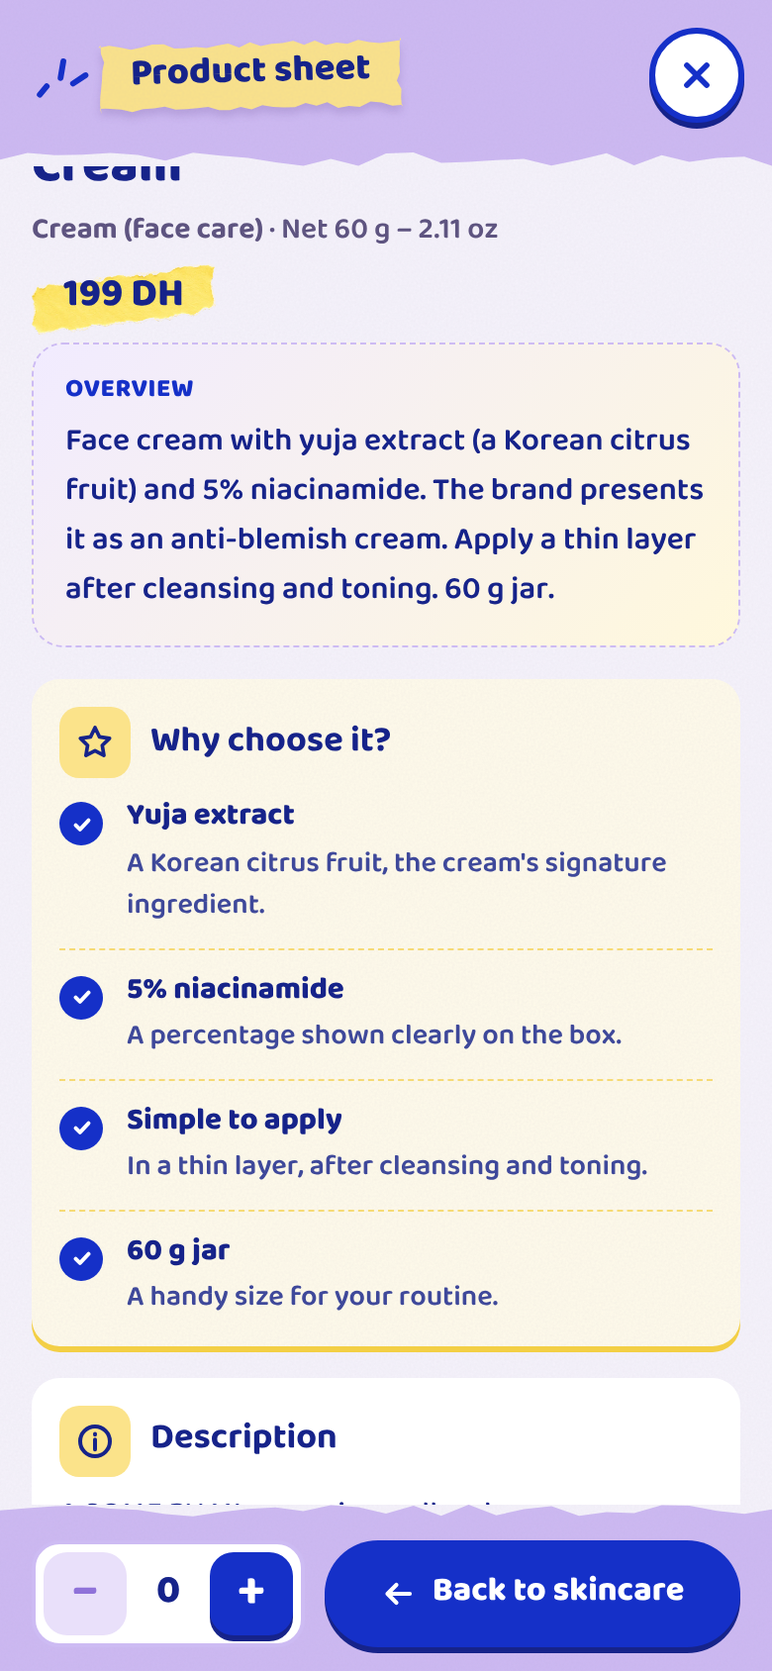
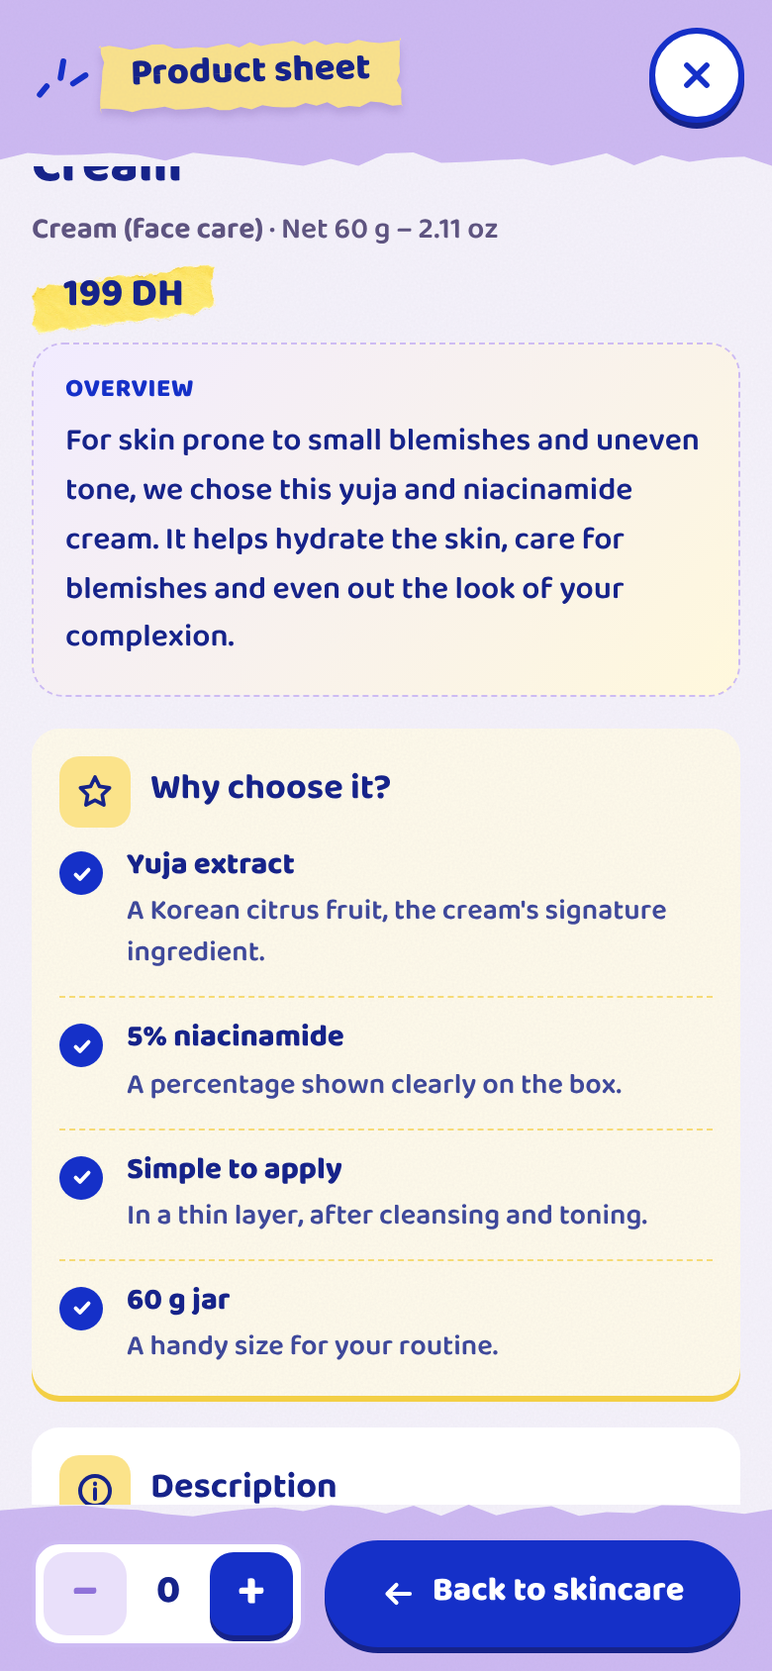
Fiches : présentation v4 avec la voix de la boutique, centrée sur la cliente
- 8 textes FR / AR / EN : besoin, sensation, type de soin ; « aide à », « sensation de »
- Bénéfices vérifiés pour chaque produit (emballage + description officielle/revendeurs), sans promesse médicale
- docs/presentation-fiches.md : texte, éléments confirmés, choix d'écriture et sources par produit

Claude-Session: https://claude.ai/code/session_01D4a2WqgbVXQvrowoBomywW

Changed region(s): [[0.0308, 0.2464, 0.9538, 0.9242], [0.8308, 0.3697, 0.9846, 0.4313]]

diff --git a/docs/presentation-fiches.md b/docs/presentation-fiches.md
@@ -1,75 +1,102 @@
-# Présentation des fiches — version vérifiée (27/11/2026)
+# Présentation des fiches — version 4 (27/11/2026)
 
-Bloc **« Présentation »** (AR « نبذة عن المنتج », EN « Overview ») affiché en premier. Chaque phrase est vérifiée sur la photo de l'emballage.
-Structure : ce que c'est → ingrédients / caractéristiques confirmés → ce que dit l'emballage (« selon l'emballage », « la marque le présente comme ») → format.
-Aucune question marketing, aucune situation d'utilisation inventée, aucun résultat garanti.
+Bloc **« Présentation »** affiché en premier. Voix de la boutique, centrée sur le besoin de la cliente, la sensation et le type de soin.
+Effets cosmétiques prudents (« aide à », « sensation de »), uniquement s'ils sont annoncés pour **ce produit précis** (emballage + description officielle ou revendeurs). Aucun bénéfice déduit d'un ingrédient seul, aucun résultat garanti.
+Les caractéristiques techniques restent dans « Pourquoi le choisir ? » et « Fiche technique ».
 
 ## 1. MEDIHEAL — Collagen
 
-**Source (emballage) :** « COLLAGEN » ; « 98 % » (texte coréen « 순도 UPGRADE ») ; « CORE FIRMING » ; « DERMATOLOGY TEST COMPLETED » ; « MEDIHEAL DERMATOLOGY ». Contenance et type exact (tissu, gel…) : non indiqués.
+- **FR** — Ce masque est pensé pour les peaux qui manquent de fermeté et de confort. Nous l'avons choisi pour sa formule au collagène, associée à des peptides et à de l'acide hyaluronique : il aide à hydrater ta peau et lui apporte une agréable sensation de souplesse.
+- **AR** — هذا القناع مصمَّم للبشرة التي تفتقر إلى التماسك والراحة. اخترناه لتركيبته بالكولاجين، مع الببتيدات وحمض الهيالورونيك: يساعد على ترطيب بشرتك ويمنحها إحساساً لطيفاً بالمرونة.
+- **EN** — This mask is made for skin that lacks firmness and comfort. We chose it for its collagen formula, paired with peptides and hyaluronic acid: it helps hydrate your skin and leaves it feeling supple.
 
-- **FR** — Masque visage MEDIHEAL au collagène, d'une pureté de 98 % selon l'emballage. La marque le présente comme un soin destiné à la fermeté de la peau. Il est testé dermatologiquement (gamme Mediheal Dermatology).
-- **AR** — قناع للوجه من MEDIHEAL بالكولاجين، بنقاوة 98% حسب الغلاف. تقدّمه العلامة كعناية موجّهة لتماسك البشرة. وهو مختبَر جلدياً (مجموعة Mediheal Dermatology).
-- **EN** — MEDIHEAL face mask with collagen, 98% pure according to the packaging. The brand presents it as a care for skin firmness. It is dermatologically tested (Mediheal Dermatology line).
+**Ce qui est confirmé :** Emballage : collagène 98 %, « Core Firming », testé dermatologiquement. Description officielle (Sephora) : collagène de bas poids moléculaire + « 3X Firming Booster » (peptides, élastine, acide hyaluronique de bas poids moléculaire).
+
+**Choix d'écriture :** « aide à hydrater » (acide hyaluronique annoncé par la marque) ; « sensation de souplesse » ; besoin « fermeté » = positionnement de la marque. Liste INCI complète non confirmée.
+
+**Sources :** [www.sephora.me](https://www.sephora.me/om-en/p/collagen-essential-mask-core-firming/P10064553) · [skinsort.com](https://skinsort.com/products/mediheal/collagen-essential-mask/core-firming)
 
 ## 2. 7th Heaven — Vitamin C
 
-**Source (emballage) :** « VITAMIN C » ; « ADVANCED SERUM SHEET MASK » ; « ANTI-FATIGUE — Brightening + Re-Energising » ; « FOR ALL SKIN TYPES » ; « Vegetarian Society Vegan Approved » ; « 1 BIODEGRADABLE SHEET MASK ». Le « 5 % Active Complex* » n'est pas repris (astérisque non expliqué).
+- **FR** — Les jours où ton teint paraît fatigué ou terne, ce masque t'apporte un vrai coup de pouce. Son sérum à la vitamine C aide à raviver l'éclat de ta peau et à lui donner un air plus reposé. Il convient à tous les types de peau, et nous l'aimons aussi pour sa formule végane.
+- **AR** — في الأيام التي تبدو فيها بشرتك متعبة أو باهتة، يمنحك هذا القناع دفعة لطيفة. يساعد سيرومه بفيتامين سي على إعادة الإشراق إلى بشرتك ومنحها مظهراً أكثر راحة. وهو مناسب لجميع أنواع البشرة، ونحبّه أيضاً لتركيبته النباتية.
+- **EN** — On days when your skin looks tired or dull, this mask gives it a real boost. Its vitamin C serum helps bring back radiance and a more rested look. It suits all skin types, and we also love its vegan formula.
 
-- **FR** — Masque en tissu imprégné d'un sérum à la vitamine C, adapté à tous les types de peau. Selon l'emballage, c'est un masque anti-fatigue qui aide à illuminer et à redynamiser la peau. Il est végan (approuvé par la Vegetarian Society) et le sachet contient un masque en tissu biodégradable.
-- **AR** — قناع قماشي مشبّع بسيروم فيتامين سي، مناسب لجميع أنواع البشرة. حسب الغلاف، هو قناع لمظاهر التعب يساعد على إشراق البشرة وتنشيطها. وهو نباتي (معتمد من Vegetarian Society)، ويحتوي الكيس على قناع قماشي واحد قابل للتحلل الحيوي.
-- **EN** — Sheet mask soaked in a vitamin C serum, suitable for all skin types. According to the packaging, it is an anti-fatigue mask that helps brighten and re-energise the skin. It is vegan (approved by the Vegetarian Society) and the sachet contains one biodegradable sheet mask.
+**Ce qui est confirmé :** Emballage : sérum vitamine C, « Anti-Fatigue — Brightening + Re-Energising », toutes peaux, végan. Revendeurs : pour les peaux fatiguées et ternes.
+
+**Choix d'écriture :** « aide à raviver l'éclat » et « air plus reposé » = promesse de l'emballage formulée avec « aide à ». Liste INCI complète non trouvée.
+
+**Sources :** [www.ocado.com](https://www.ocado.com/products/7th-heaven-nutriactive-vit-c-sheet-mask/674467011) · [groceries.morrisons.com](https://groceries.morrisons.com/products/7th-heaven-nutri-active-vitamin-c-mask/113941481)
 
 ## 3. look AT ME — Green Blend
 
-**Source (emballage) :** « TEA TREE + CUCUMBER FACE MASK » ; « Revitalizing & Soothing » ; « TENCEL SHEET » ; « 1 SINGLE USE SHEET MASK » ; « 25ml / 0.84 fl oz » ; « MADE IN KOREA ».
+- **FR** — Pour les peaux qui ont besoin d'être apaisées, nous avons choisi ce masque à l'arbre à thé et au concombre. Il aide à calmer et à revitaliser la peau, et laisse une agréable sensation de fraîcheur.
+- **AR** — للبشرة التي تحتاج إلى التهدئة، اخترنا هذا القناع بشجرة الشاي والخيار. يساعد على تهدئة البشرة وإنعاشها، ويترك إحساساً منعشاً لطيفاً.
+- **EN** — For skin that needs soothing, we chose this tea tree and cucumber mask. It helps calm and revitalise the skin, and leaves a pleasant fresh feeling.
 
-- **FR** — Masque visage en tissu à l'arbre à thé et au concombre, sur une feuille en Tencel. Selon l'emballage, il aide à revitaliser et à apaiser la peau. Le sachet contient un masque à usage unique de 25 ml, fabriqué en Corée.
-- **AR** — قناع قماشي للوجه بشجرة الشاي والخيار، على ورقة من ألياف Tencel. حسب الغلاف، يساعد على إنعاش البشرة وتهدئتها. يحتوي الكيس على قناع واحد للاستعمال مرة واحدة بحجم 25 مل، مصنوع في كوريا.
-- **EN** — Face sheet mask with tea tree and cucumber, on a Tencel sheet. According to the packaging, it helps revitalise and soothe the skin. The sachet contains one single-use 25 ml mask, made in Korea.
+**Ce qui est confirmé :** Emballage : arbre à thé + concombre, « Revitalizing & Soothing ». Revendeurs : masque en tissu hydratant, arbre à thé apaisant.
+
+**Choix d'écriture :** « aide à calmer et revitaliser » = emballage ; « sensation de fraîcheur » = masque en tissu au concombre (sensation, pas résultat). Allégation « contrôle du sébum » des revendeurs non reprise.
+
+**Sources :** [kosmosbeauty.com](https://kosmosbeauty.com/products/look-at-me-green-blend-tea-tree-cucumber-face-mask-25ml) · [www.nahdionline.com](https://www.nahdionline.com/en-sa/look-at-me-green-blend-tencel-face-mask/pdp/103029834)
 
 ## 4. IDC Institute — Hazel + Lavender
 
-**Source (emballage) :** « ONE WEEK TREATMENT » ; « 3 — WEDNESDAY » ; « Hazel + Lavender » ; « 22g / 0.73 fl.oz — FACIAL MASK » ; logo « CRUELTY FREE » ; « Nettoie les pores et élimine la fatigue de la peau » (texte français imprimé).
+- **FR** — Quand ta peau a besoin d'un bon nettoyage et d'un peu de repos, ce masque à l'hamamélis et à la lavande est fait pour toi. Il aide à nettoyer les pores et à estomper les signes de fatigue. C'est le masque n°3 de la gamme One Week Treatment, prévu pour le mercredi.
+- **AR** — عندما تحتاج بشرتك إلى تنظيف جيد وقليل من الراحة، فهذا القناع بالهماميليس واللافندر مناسب لك. يساعد على تنظيف المسام وتخفيف مظاهر التعب. وهو القناع رقم 3 من مجموعة One Week Treatment، المخصّص ليوم الأربعاء.
+- **EN** — When your skin needs a good cleanse and a little rest, this witch hazel and lavender mask is made for you. It helps cleanse the pores and ease signs of tiredness. It's mask no. 3 in the One Week Treatment line, the one for Wednesday.
 
-- **FR** — Masque visage à l'hamamélis et à la lavande, n°3 (mercredi) de la gamme One Week Treatment d'IDC Institute. Selon l'emballage, il nettoie les pores et élimine la fatigue de la peau. Il n'est pas testé sur les animaux et le sachet contient un masque de 22 g.
-- **AR** — قناع للوجه بالهماميليس واللافندر، رقم 3 (الأربعاء) من مجموعة One Week Treatment من IDC Institute. حسب الغلاف، ينظّف المسام ويزيل مظاهر التعب عن البشرة. وهو غير مختبَر على الحيوانات، ويحتوي الكيس على قناع واحد بوزن 22 غرام.
-- **EN** — Face mask with witch hazel and lavender, no. 3 (Wednesday) in IDC Institute's One Week Treatment line. According to the packaging, it cleans the pores and removes tiredness from the face. It is cruelty free and the sachet contains one 22 g mask.
+**Ce qui est confirmé :** Emballage : « Nettoie les pores et élimine la fatigue de la peau », hamamélis + lavande, n°3 mercredi. Aucune fiche en ligne exacte trouvée.
+
+**Choix d'écriture :** Texte basé uniquement sur l'emballage ; « élimine » adouci en « aide à estomper les signes de fatigue ».
+
+**Sources :** [www.promofarma.com](https://www.promofarma.com/en/idc-institute-mascarilla-facial-lavanda-1ud/p-678071) (produit proche, non repris)
 
 ## 5. SOME BY MI — Real Glutathione
 
-**Source (emballage) :** « Moisturizing | Radiance » ; « Dermatologist Tested » ; « A 100% plant-based biodegradable sheet mask formulated with Real Glutathione that revitalizes dull skin and promotes a brighter, more even skin tone » ; « NET 20 G ».
+- **FR** — Pensé pour les teints ternes, ce masque au glutathion aide à hydrater la peau et à lui redonner de l'éclat, pour un teint qui paraît plus lumineux et plus uniforme. Nous l'avons aussi choisi pour sa feuille 100 % végétale et biodégradable.
+- **AR** — مصمَّم للبشرة الباهتة، يساعد هذا القناع بالغلوتاثيون على ترطيب البشرة وإعادة إشراقها، لتبدو أكثر إشراقاً وتوحّداً. واخترناه أيضاً لورقته النباتية 100% والقابلة للتحلل الحيوي.
+- **EN** — Made for dull-looking skin, this glutathione mask helps hydrate and bring back radiance, for a complexion that looks brighter and more even. We also chose it for its 100% plant-based, biodegradable sheet.
 
-- **FR** — Masque en tissu au glutathion, sur une feuille 100 % végétale et biodégradable. Selon l'emballage, il hydrate, ravive les peaux ternes et favorise un teint plus lumineux et plus uniforme. Il est testé dermatologiquement ; poids net : 20 g.
-- **AR** — قناع قماشي بالغلوتاثيون، على ورقة نباتية 100% وقابلة للتحلل الحيوي. حسب الغلاف، يرطّب البشرة وينعش البشرة الباهتة ويساعد على لون بشرة أكثر إشراقاً وتوحّداً. وهو مختبَر جلدياً، ووزنه الصافي 20 غرام.
-- **EN** — Sheet mask with glutathione, on a 100% plant-based, biodegradable sheet. According to the packaging, it moisturises, revitalises dull skin and promotes a brighter, more even skin tone. It is dermatologist tested; net weight: 20 g.
+**Ce qui est confirmé :** Emballage : « Moisturizing | Radiance », « revitalizes dull skin and promotes a brighter, more even skin tone ». Ingrédients (bases INCI) : glycérine, glutathion, vitamine E.
+
+**Choix d'écriture :** « aide à hydrater » (glycérine + emballage) ; « redonner de l'éclat, teint qui paraît plus lumineux et uniforme » = emballage, formulé en apparence. « Atténue les taches » (revendeurs) non repris.
+
+**Sources :** [skinsort.com](https://skinsort.com/products/some-by-mi/care-mask/real-glutathione-brightening) · [incidecoder.com](https://incidecoder.com/products/some-by-mi-real-glutathione-brightening-care-mask)
 
 ## 6. masque BAR — Rose Gold Foil
 
-**Source (emballage) :** « sheet mask » ; « enriched with extracts that help nourish and hydrate your skin » ; « Contains: Soybean Extract, Mushroom Extract, Witch Hazel Water » ; « 1 COMPLETE MASK — 30 ml » ; « UNMASQUE BEAUTY ».
+- **FR** — Pour la peau qui tiraille ou manque de confort, ce masque aide à hydrater et à nourrir, et laisse une agréable sensation de douceur. Sa formule associe un extrait de champignon, un extrait de soja et de l'eau d'hamamélis.
+- **AR** — للبشرة التي تشعر بالشدّ أو تفتقر إلى الراحة، يساعد هذا القناع على ترطيبها وتغذيتها، ويترك إحساساً لطيفاً بالنعومة. تجمع تركيبته بين مستخلص الفطر ومستخلص الصويا وماء الهماميليس.
+- **EN** — For skin that feels tight or uncomfortable, this mask helps hydrate and nourish, and leaves a soft, comfortable feel. Its formula combines mushroom extract, soybean extract and witch hazel water.
 
-- **FR** — Masque en tissu Rose Gold Foil de masque BAR, contenant des extraits de soja et de champignon ainsi que de l'eau d'hamamélis. Selon l'emballage, ces extraits aident à nourrir et hydrater la peau. Le sachet contient un masque complet de 30 ml.
-- **AR** — قناع قماشي Rose Gold Foil من masque BAR، يحتوي على مستخلص الصويا ومستخلص الفطر وماء الهماميليس. حسب الغلاف، تساعد هذه المستخلصات على تغذية البشرة وترطيبها. يحتوي الكيس على قناع كامل بحجم 30 مل.
-- **EN** — masque BAR Rose Gold Foil sheet mask, containing soybean and mushroom extracts as well as witch hazel water. According to the packaging, these extracts help nourish and hydrate the skin. The sachet contains one complete 30 ml mask.
+**Ce qui est confirmé :** Emballage : « extracts that help nourish and hydrate your skin », soja, champignon, eau d'hamamélis. Revendeurs : champignon tremella, soja fermenté.
+
+**Choix d'écriture :** « aide à hydrater et nourrir » = emballage ; « sensation de douceur » ; besoin « peau qui tiraille » = besoin associé à l'hydratation.
+
+**Sources :** [incidecoder.com](https://incidecoder.com/products/masquebar-rose-gold-foil-sheet-mask) · [www.kw.boots.com](https://www.kw.boots.com/en/buy-masque-bar%C2%A0%C2%A0rose-gold-foil-sheet-mask.html)
 
 ## 7. ORJENA — Power Collagen Emulsion
 
-**Source (emballage) :** « POWER COLLAGEN EMULSION » ; « SKIN ELASTICITY / SKIN NUTRITION / REFRESH » ; « FOR ALL SKIN TYPES » ; « 100ml ». Mode d'emploi : visuel « Nettoyez et tonifiez / Versez dans la paume / Appliquez par pressions douces ». ⚠ Visuels générés par IA : une vraie photo du produit est recommandée.
+- **FR** — Plus fluide qu'une crème, cette émulsion au collagène aide à hydrater et à nourrir la peau, et lui apporte une sensation de fraîcheur et de souplesse. Elle convient à tous les types de peau et s'applique juste après le tonique.
+- **AR** — أخفّ من الكريم، يساعد هذا المستحلب بالكولاجين على ترطيب البشرة وتغذيتها، ويمنحها إحساساً بالانتعاش والمرونة. وهو مناسب لجميع أنواع البشرة، ويُطبَّق مباشرة بعد التونر.
+- **EN** — Lighter than a cream, this collagen emulsion helps hydrate and nourish the skin, and leaves it feeling fresh and supple. It suits all skin types and goes on right after your toner.
 
-- **FR** — Émulsion pour le visage au collagène, adaptée à tous les types de peau. Selon l'emballage, elle est destinée à l'élasticité, à la nutrition et à la fraîcheur de la peau. Elle s'applique après le nettoyage et le tonique, par pressions douces. Flacon de 100 ml.
-- **AR** — مستحلب للوجه بالكولاجين، مناسب لجميع أنواع البشرة. حسب الغلاف، هو موجّه لمرونة البشرة وتغذيتها وانتعاشها. يُطبَّق بعد التنظيف والتونر بضغطات خفيفة. قارورة بحجم 100 مل.
-- **EN** — Collagen face emulsion, suitable for all skin types. According to the packaging, it is designed for skin elasticity, nourishment and freshness. Apply after cleansing and toning, with gentle pressing motions. 100 ml bottle.
+**Ce qui est confirmé :** Visuels : « Skin Elasticity / Skin Nutrition / Refresh », « For all skin types ». Bases INCI : collagène hydrolysé, adénosine, bétaïne, allantoïne… (pas de page officielle).
+
+**Choix d'écriture :** « aide à hydrater et nourrir », « sensation de fraîcheur et de souplesse » = mentions du visuel. « Anti-rides » (revendeur) non repris. ⚠ Visuels générés par IA : vraie photo recommandée.
+
+**Sources :** [skinsort.com](https://skinsort.com/products/orjena/power-collagen-emulsion) · [www.skincarisma.com](https://www.skincarisma.com/products/orjena/power-collagen-emulsion)
 
 ## 8. SOME BY MI — Yuja Niacin
 
-**Source (emballage) :** « YUJA NIACIN ANTI BLEMISH CREAM » ; « YUJA EXTRACT » ; « NIACINAMIDE 5 % » ; « NET 60 G » (écrit « 60 6 » sur le visuel IA). « Non-Comedogenic Tested(*) » non repris (astérisque non expliqué). Mode d'emploi : texte officiel confirmé.
+- **FR** — Pour les peaux sujettes aux petites imperfections et au teint irrégulier, nous avons choisi cette crème au yuja et à la niacinamide. Elle aide à hydrater la peau, à prendre soin des imperfections et à unifier l'apparence du teint.
+- **AR** — للبشرة المعرّضة للشوائب الصغيرة وعدم توحّد اللون، اخترنا هذا الكريم باليوجا والنياسيناميد. يساعد على ترطيب البشرة والعناية بالشوائب وتوحيد مظهر لون البشرة.
+- **EN** — For skin prone to small blemishes and uneven tone, we chose this yuja and niacinamide cream. It helps hydrate the skin, care for blemishes and even out the look of your complexion.
 
-- **FR** — Crème pour le visage à l'extrait de yuja (un agrume coréen) et à 5 % de niacinamide. La marque la présente comme une crème anti-imperfections. Elle s'applique en fine couche, après le nettoyage et le tonique. Pot de 60 g.
-- **AR** — كريم للوجه بمستخلص اليوجا (حمضيات كورية) و5% من النياسيناميد. تقدّمه العلامة ككريم مضاد للشوائب. يُطبَّق بطبقة رقيقة بعد التنظيف والتونر. علبة بوزن 60 غرام.
-- **EN** — Face cream with yuja extract (a Korean citrus fruit) and 5% niacinamide. The brand presents it as an anti-blemish cream. Apply a thin layer after cleansing and toning. 60 g jar.
+**Ce qui est confirmé :** Emballage : « Anti Blemish Cream », extrait de yuja, niacinamide 5 %. Revendeurs : crème hydratante pour imperfections et teint irrégulier.
 
-## Autres corrections (même principe)
+**Choix d'écriture :** « aide à hydrater, prendre soin des imperfections, unifier l'apparence du teint » ; « atténue taches / mélasma » (revendeurs) non repris.
 
-- **Descriptions** des 8 produits : remplacées par une présentation sobre de l'emballage et de la gamme (fin de « soirée entre copines », « rendez-vous beauté », « à portée de main », « plein de peps »…).
-- **Pourquoi le choisir ?** : 3 lignes rendues factuelles — MEDIHEAL (« facile à emporter ou à offrir » → « un masque par sachet »), ORJENA (« à garder à portée de main » → « un flacon de 100 ml »), masque BAR (« une touche chic » → « ligne Unmasque Beauty »).
-- Fichiers : `database/introductions.sql`, `database/fiches-sobres.sql` (un texte modifié dans l'admin n'est jamais écrasé).
+**Sources :** [www.beautybay.com](https://www.beautybay.com/p/some-by-mi/yuja-niacin-anti-blemish-cream/) · [www.vitacost.com](https://www.vitacost.com/products/some-by-mi-yuja-niacin-anti-blemish-cream-2-11-oz-60-g-135944)
+
